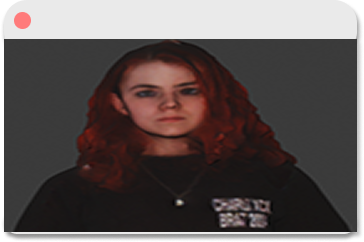
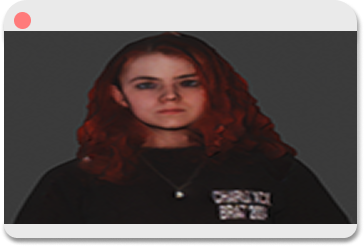
additionaldraggableelements

diff --git a/cards.js b/cards.js
@@ -1,33 +1,33 @@
-let newX = 0, newY = 0, startX = 0, startY = 0;
+let startX = 0, startY = 0;
+let activeCard = null;
 
-const card = document.getElementById('card')
+document.querySelectorAll('.card').forEach(card => {
+    card.addEventListener('mousedown', e => mouseDown(e, card));
+});
 
-card.addEventListener('mousedown', mouseDown)
+function mouseDown(e, card){
+    activeCard = card;
+    startX = e.clientX;
+    startY = e.clientY;
 
-function mouseDown(e){
-    startX = e.clientX
-    startY = e.clientY
-
-    document.addEventListener('mousemove', mouseMove)
-    document.addEventListener('mouseup', mouseUp)
+    document.addEventListener('mousemove', mouseMove);
+    document.addEventListener('mouseup', mouseUp);
 }
 
 function mouseMove(e){
-    newX = startX - e.clientX 
-    newY = startY - e.clientY 
-  
-    startX = e.clientX
-    startY = e.clientY
+    if (!activeCard) return;
 
-    card.style.top = (card.offsetTop - newY) + 'px'
-    card.style.left = (card.offsetLeft - newX) + 'px'
+    const newX = startX - e.clientX;
+    const newY = startY - e.clientY;
+
+    startX = e.clientX;
+    startY = e.clientY;
+
+    activeCard.style.top = (activeCard.offsetTop - newY) + 'px';
+    activeCard.style.left = (activeCard.offsetLeft - newX) + 'px';
 }
 
-function mouseUp(e){
-    document.removeEventListener('mousemove', mouseMove)
+function mouseUp(){
+    document.removeEventListener('mousemove', mouseMove);
+    activeCard = null;
 }
-
-var randomHeight = Math.random()*100;
-var height = document.querySelector("#card");
-height.style.setProperty('--random-height', randomHeight);
-console.log(randomHeight);

diff --git a/about.html b/about.html
@@ -3,7 +3,7 @@
 <head>
     <meta charset="utf=8">
     <meta http-equiv='X-UA-Compatible' content='IE=edge'>
-    <title>Bethany Wilson</title>
+    <title>About</title>
     <meta name="viewport" content="width=device-width, initial-scale=1">
     <link rel="stylesheet" type="text/css" media="screen" href="style.css">
 	<script src="https://code.jquery.com/jquery-3.6.0.min.js"></script>
@@ -15,12 +15,8 @@
 		    <nav id="navlinks"></nav>
 		    <script>$(function(){$("#navlinks").load("nav.html");});</script>  
 	    </div>
-        <div id="cards">
-            <div class="card" style="background-image:url('assets/frontpagestickers/micheal.png'); top: 80px; left: 500px;"></div>
-            <div class="card" style="background-image:url('assets/frontpagestickers/stretch.png'); top: 300px; left: 200px;"></div>
-            <div class="card" style="background-image:url('assets/frontpagestickers/glorb.png'); top: 250px; left: 600px;"></div>
-        </div>  
-        <img  src="assets/title.png"> 
+        <img class="card" id="backgrounds" src="assets/backgrounds/textbox.png">
+        <img src="assets/title.png"> 
     </div>
 </body>
     <script src="cards.js"></script>

diff --git a/style.css b/style.css
@@ -15,20 +15,19 @@ body{
     --random-height: 50; 
 }
 
-#card{
+.card {
     width: 400px;
     height: 270px;
     background-size: cover;
     border-radius: 5px;
-    cursor: pointer;
-    position: fixed;
-    top: var(--random-height);
+    cursor: grab;
+    position: absolute;
 }
 
 nav{
 	width: 100%;
 	text-align: right;
-	color: #000000;
+	color: #ffffff;
 	margin-left: auto;
 	margin-right: auto;
 	display: block;
@@ -56,4 +55,10 @@ nav{
 /* Add some top padding to the page content to prevent sudden quick movement (as the header gets a new position at the top of the page (position:fixed and top:0) */
 .sticky + .content {
 	padding-top: 102px;
+}
+#backgrounds{
+  width: 70%;
+  height: 80%;
+  left: 400px;
+  top: 100px;
 }
